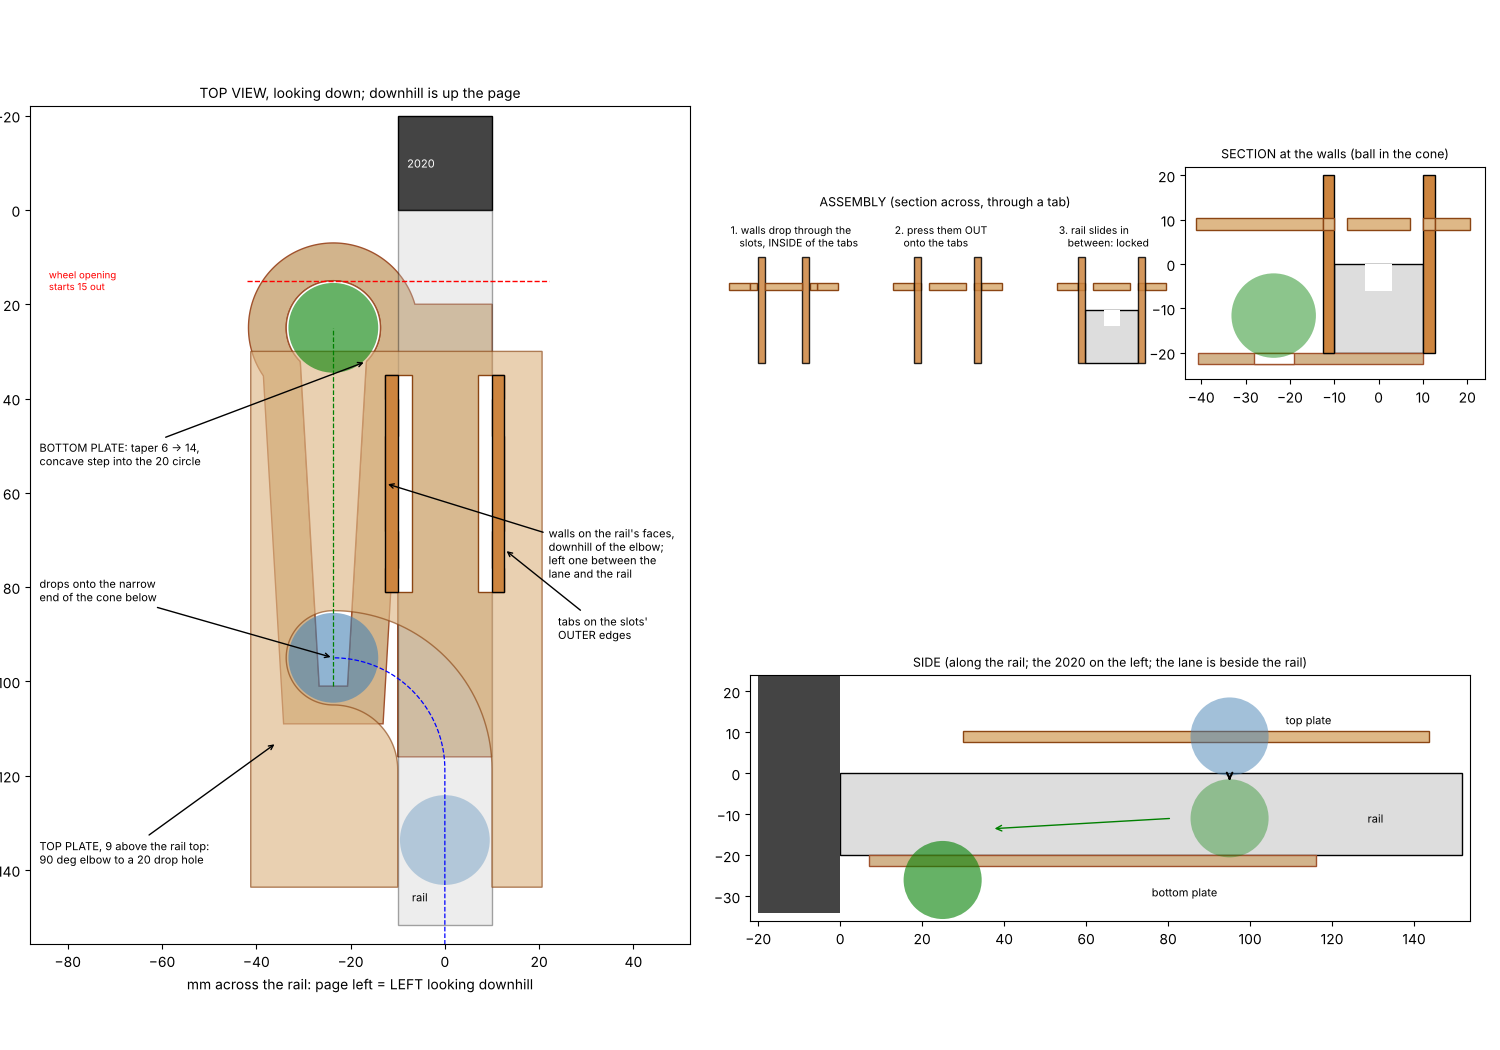
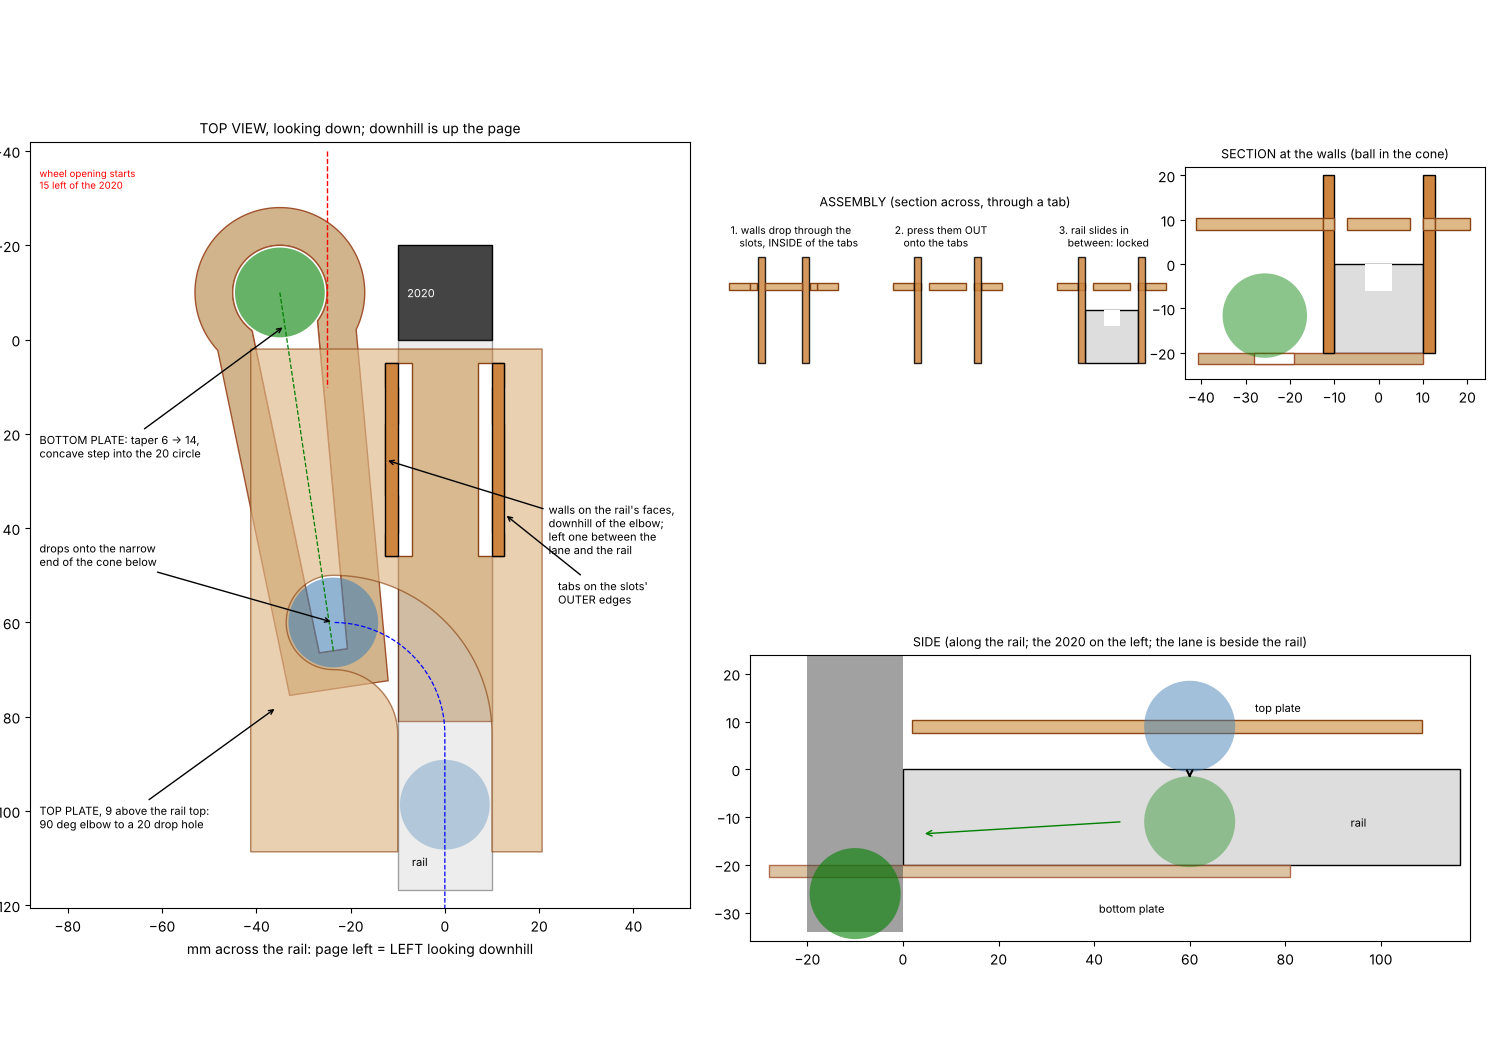
Feed drop sketch: drop circle beside the 2020 (15 gap, level with its centre); cone straight from under the drop hole to it
Claude-Session: https://claude.ai/code/session_01LQy87QnU21cWEAk5CN6jGY

diff --git a/marbles/clock/feed_drop_sketch.py b/marbles/clock/feed_drop_sketch.py
@@ -12,7 +12,9 @@ from shapely.ops import unary_union  # noqa: E402
 T = 2.63; BR = 19.05 / 2; ZC = math.sqrt(BR ** 2 - 3.1 ** 2); CL = 0.3
 XL = -(10 + T + BR + 1.5)                 # lane line: ball 1.5 clear of the left wall's outer face
 RC = -XL                                  # 90 deg elbow from the rail centre out to the lane line
-YEND, Y_HOLE = 25.0, 95.0
+GAP_BEAM = 15.0                           # drop circle's right edge this far left of the 2020's left face (wheel opening)
+X_END, YEND = -(10 + GAP_BEAM + 10), -10.0 # drop circle centre: beside the 2020, level with its centre
+Y_HOLE = 60.0
 Y0 = Y_HOLE + RC                          # elbow starts at Y0 (heading downhill), ends at the drop hole (XL, Y_HOLE)
 W_TIP = 14.0                              # cone's wide end: still holds the ball (centre 6.46 up); the circle drops it
 TAB_W = 8.0
@@ -21,17 +23,23 @@ TAB_W = 8.0
 def geometry():
     el = [(-RC + RC * math.cos(math.radians(90 * i / 40)), Y0 - RC * math.sin(math.radians(90 * i / 40))) for i in range(41)]
     path = LineString([(0, Y0 + 40)] + el)
-    y_meet = YEND + math.sqrt(10 ** 2 - (W_TIP / 2) ** 2)
+    # cone: straight (no curve) from under the drop hole to the circle beside the 2020
     y_c0 = Y_HOLE + 6
-    taper = Polygon([(XL - 3, y_c0), (XL + 3, y_c0), (XL + W_TIP / 2, y_meet), (XL - W_TIP / 2, y_meet)])
-    cone = unary_union([taper, Point(XL, YEND).buffer(10, 64)])
-    bot = unary_union([box(-10, YEND - 5, 10, y_c0 + 15), cone.buffer(8, join_style=2)]).difference(cone)
-    yw1, yw0 = Y0 - (RC + 10) - 4, YEND + 10
+    p0, p1 = (XL, y_c0), (X_END, YEND)
+    L = math.dist(p0, p1); u = ((p1[0] - p0[0]) / L, (p1[1] - p0[1]) / L); n = (-u[1], u[0])
+    m = math.sqrt(10 ** 2 - (W_TIP / 2) ** 2)
+    pm = (p1[0] - u[0] * m, p1[1] - u[1] * m)
+    taper = Polygon([(p0[0] + n[0] * 3, p0[1] + n[1] * 3), (pm[0] + n[0] * W_TIP / 2, pm[1] + n[1] * W_TIP / 2),
+                     (pm[0] - n[0] * W_TIP / 2, pm[1] - n[1] * W_TIP / 2), (p0[0] - n[0] * 3, p0[1] - n[1] * 3)])
+    cone = unary_union([taper, Point(p1).buffer(10, 64)])
+    y_meet = pm
+    bot = unary_union([box(-10, 2, 10, y_c0 + 15), cone.buffer(8, join_style=2)]).difference(cone)
+    yw1, yw0 = Y0 - (RC + 10) - 4, 5.0
     slots = [box(10 - T - CL, yw0, 10 + T, yw1), box(-10 - T, yw0, -10 + T + CL, yw1)]
     tabs = []
     for y in (yw0 + 5, yw1 - 5 - TAB_W):
         tabs += [box(10, y, 10 + T, y + TAB_W), box(-10 - T, y, -10, y + TAB_W)]   # tabs off the slots' OUTER edges
-    yp0, yp1 = YEND + 5, Y0 + 25
+    yp0, yp1 = 2.0, Y0 + 25                  # top plate stops just short of the 2020
     plate = (box(XL - BR - 8, yp0, 10 + T + 8, yp1).difference(path.buffer(10, 64)).difference(Point(XL, Y_HOLE).buffer(10, 64))
              .difference(unary_union(slots)).union(unary_union(tabs)))
     return dict(path=path, cone=cone, bot=bot, plate=plate, yw=(yw0, yw1), yp=(yp0, yp1), y_meet=y_meet, y_c0=y_c0)
@@ -51,22 +59,22 @@ def main():
             for r in p.interiors:
                 ax.fill(*r.xy, fc="w", ec=k.get("ec", "k"))
     a.add_patch(plt.Rectangle((-10, -20), 20, 20, fc="#444", ec="k")); a.text(-8, -9, "2020", color="w", fontsize=8)
-    a.plot([-42, 22], [15, 15], "r--", lw=1); a.text(-84, 15, "wheel opening\nstarts 15 out", color="r", fontsize=7, va="center")
+    a.plot([-10 - GAP_BEAM] * 2, [-40, 10], "r--", lw=1); a.text(-86, -32, "wheel opening starts\n15 left of the 2020", color="r", fontsize=7)
     draw(a, bot, fc="tan", ec="sienna"); a.fill(*cone.exterior.xy, fc="w", ec="sienna")
     a.add_patch(plt.Rectangle((-10, 0), 20, yp1 + 8, fc="#ccc", ec="k", alpha=.35)); a.text(-7, yp1 + 3, "rail", fontsize=8)
     draw(a, plate, fc="burlywood", ec="saddlebrown", alpha=.65)
     for x in (10, -10 - T):
         a.add_patch(plt.Rectangle((x, yw0), T, yw1 - yw0, fc="peru", ec="k"))
-    a.plot(*path.xy, "b--", lw=.9); a.plot([XL, XL], [y_c0, YEND], "g--", lw=.9)
+    a.plot(*path.xy, "b--", lw=.9); a.plot([XL, X_END], [y_c0, YEND], "g--", lw=.9)
     a.add_patch(plt.Circle((0, Y0 + 15), BR, fc="steelblue", alpha=.35))
-    a.add_patch(plt.Circle((XL, Y_HOLE), BR, fc="steelblue", alpha=.6)); a.add_patch(plt.Circle((XL, YEND), BR, fc="green", alpha=.6))
+    a.add_patch(plt.Circle((XL, Y_HOLE), BR, fc="steelblue", alpha=.6)); a.add_patch(plt.Circle((X_END, YEND), BR, fc="green", alpha=.6))
     A = dict(arrowprops=dict(arrowstyle="->"), fontsize=8)
     a.annotate("TOP PLATE, 9 above the rail top:\n90 deg elbow to a 20 drop hole", (XL - 12, Y_HOLE + 18), (-86, Y0 + 20), **A)
     a.annotate("drops onto the narrow\nend of the cone below", (XL, Y_HOLE), (-86, Y_HOLE - 12), **A)
-    a.annotate(f"BOTTOM PLATE: taper 6 -> {W_TIP:g},\nconcave step into the 20 circle", (XL + W_TIP / 2, y_meet), (-86, y_meet + 22), **A)
+    a.annotate(f"BOTTOM PLATE: taper 6 -> {W_TIP:g},\nconcave step into the 20 circle", y_meet, (-86, 25), **A)
     a.annotate("walls on the rail's faces,\ndownhill of the elbow;\nleft one between the\nlane and the rail", (-10 - T, (yw0 + yw1) / 2), (22, (yw0 + yw1) / 2 + 20), **A)
     a.annotate("tabs on the slots'\nOUTER edges", (10 + T, yw1 - 9), (24, yw1 + 10), **A)
-    a.set_xlim(-88, 52); a.set_ylim(-22, yp1 + 12); a.invert_yaxis(); a.set_aspect("equal")
+    a.set_xlim(-88, 52); a.set_ylim(-42, yp1 + 12); a.invert_yaxis(); a.set_aspect("equal")
     a.set_xlabel("mm across the rail: page left = LEFT looking downhill"); a.set_ylabel("from the 2020's face (balls roll UP the page)")
     a.set_title("TOP VIEW, looking down; downhill is up the page", fontsize=10)
     steps = [("1. walls drop through the\n   slots, INSIDE of the tabs", T + CL, False), ("2. press them OUT\n   onto the tabs", 0, False),
@@ -91,23 +99,23 @@ def main():
         c.add_patch(plt.Rectangle((x, -20), T, 40, fc="peru", ec="k"))
     for x0, x1 in ((XL - BR - 8, -10 - T), (-10 - T, -10), (-10 + T + CL, 10 - T - CL), (10, 10 + T), (10 + T, 10 + T + 8)):
         c.add_patch(plt.Rectangle((x0, ZC - T / 2), x1 - x0, T, fc="burlywood", ec="saddlebrown"))
-    c.add_patch(plt.Circle((XL, -20 + math.sqrt(BR ** 2 - 4.5 ** 2)), BR, fc="green", alpha=.45))
+    c.add_patch(plt.Circle((XL - 2, -20 + math.sqrt(BR ** 2 - 4.5 ** 2)), BR, fc="green", alpha=.45))
     c.set_xlim(XL - 20, 24); c.set_ylim(-26, 22); c.set_aspect("equal"); c.set_title("SECTION at the walls (ball in the cone)", fontsize=9)
     s.add_patch(plt.Rectangle((0, -20), yp1 + 8, 20, fc="#ddd", ec="k")); s.text(yp1 - 15, -12, "rail", fontsize=8)
     s.add_patch(plt.Rectangle((yp0, ZC - T / 2), yp1 - yp0, T, fc="burlywood", ec="saddlebrown")); s.text(yp1 - 35, ZC + 3, "top plate", fontsize=8)
-    s.add_patch(plt.Rectangle((YEND - 18, -20 - T), y_c0 + 15 - YEND + 18, T, fc="tan", ec="sienna")); s.text(y_c0 - 25, -30, "bottom plate", fontsize=8)
-    s.add_patch(plt.Rectangle((-20, -34), 20, 62, fc="#444"))
+    s.add_patch(plt.Rectangle((YEND - 18, -20 - T), y_c0 + 15 - YEND + 18, T, fc="tan", ec="sienna", alpha=.8)); s.text(y_c0 - 25, -30, "bottom plate", fontsize=8)
+    s.add_patch(plt.Rectangle((-20, -34), 20, 62, fc="#444", alpha=.5))
     s.add_patch(plt.Circle((Y_HOLE, ZC), BR, fc="steelblue", alpha=.5))
     s.add_patch(plt.Circle((Y_HOLE, -20 + math.sqrt(BR ** 2 - 9)), BR, fc="green", alpha=.35)); s.add_patch(plt.Circle((YEND, -26), BR, fc="green", alpha=.6))
     s.annotate("", (Y_HOLE, -20 + 9.04 + BR - 1), (Y_HOLE, ZC - BR), arrowprops=dict(arrowstyle="->", lw=1.5))
-    s.annotate("", (YEND + 12, -20 + 6.5), (Y_HOLE - 14, -20 + 9.04), arrowprops=dict(arrowstyle="->", lw=1, color="g"))
-    s.set_xlim(-22, yp1 + 10); s.set_ylim(-36, 24); s.set_aspect("equal")
+    s.annotate("", (YEND + 14, -20 + 6.5), (Y_HOLE - 14, -20 + 9.04), arrowprops=dict(arrowstyle="->", lw=1, color="g"))
+    s.set_xlim(-32, yp1 + 10); s.set_ylim(-36, 24); s.set_aspect("equal")
     s.set_title("SIDE (along the rail; the 2020 on the left; the lane is beside the rail)", fontsize=9)
     out = Path(__file__).resolve().parent.parent / "views" / "feed_drop_v5.png"
     plt.savefig(out, dpi=100)
     t = math.degrees(math.acos(1 - 10 / RC))
     print(f"{out.name}: lane x {XL:.2f}; elbow r {RC:.2f}, y {Y0:.1f} -> hole at {Y_HOLE:g}; cone 6 at {y_c0:g} -> {W_TIP:g} at "
-          f"{y_meet:.2f}, circle centre {YEND:g}; walls {yw0:g}..{yw1:.1f}; ball centre crosses the rail edge {t:.1f} deg into the elbow")
+          f"({y_meet[0]:.1f}, {y_meet[1]:.1f}), circle centre ({X_END:g}, {YEND:g}); walls {yw0:g}..{yw1:.1f}; ball centre crosses the rail edge {t:.1f} deg into the elbow")
 
 
 if __name__ == "__main__":
